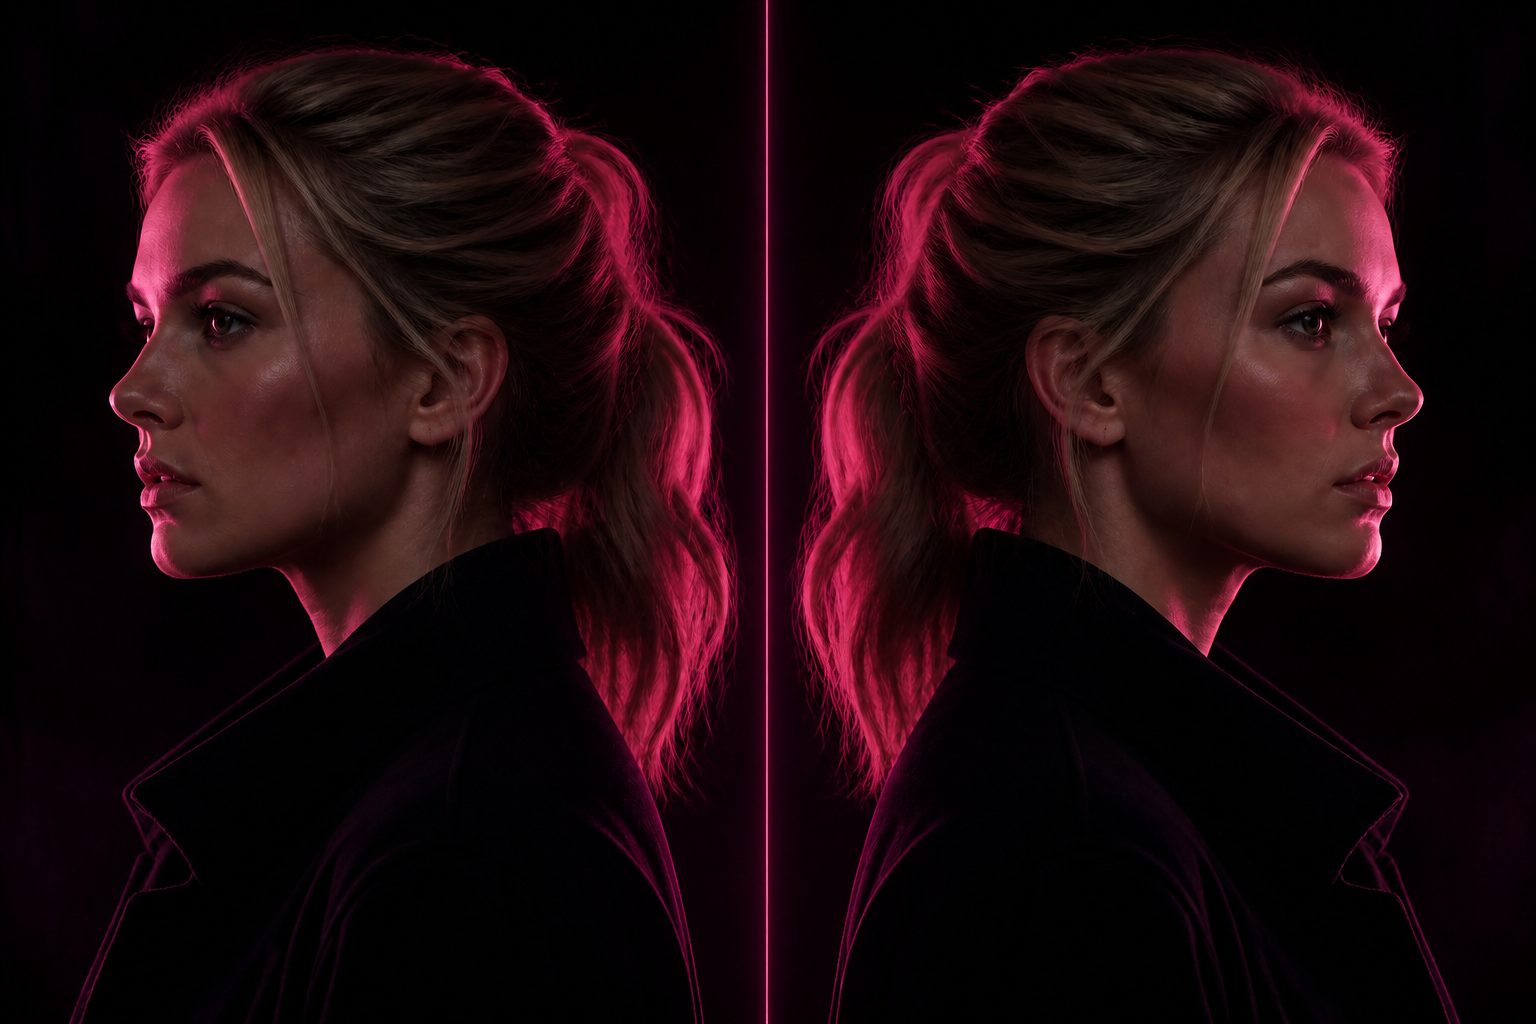
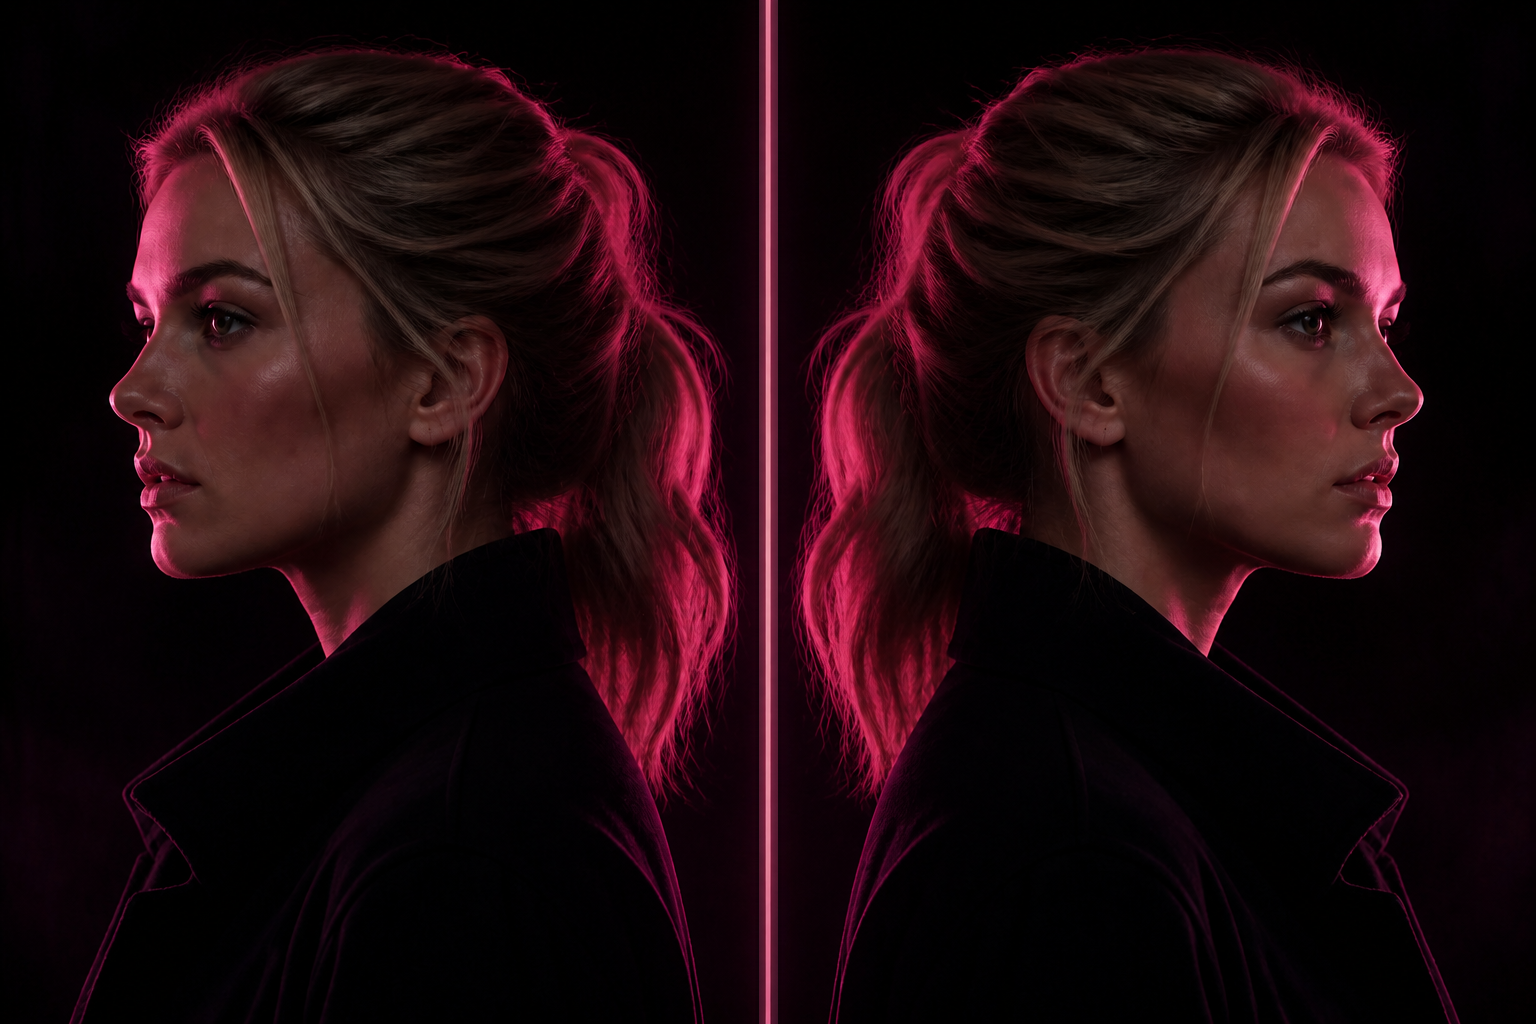
Match meet-screen pink line to page 2 exactly
Paste the page-2 seam strip into the blonde split; cache-bust the asset.

Changed region(s): [[0.4688, 0.0, 0.5312, 1.0]]

diff --git a/index.html b/index.html
@@ -576,7 +576,7 @@
       <h1 class="screen-title">Who do you meet?</h1>
       <div class="portrait-wrap">
         <div class="portrait">
-          <img src="assets/split-meet.png" alt="" />
+          <img src="assets/split-meet.png?v=2" alt="" />
         </div>
       </div>
 
